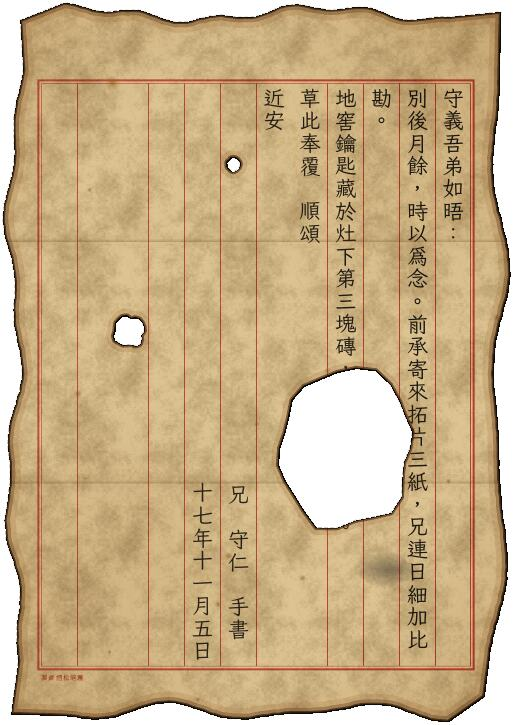
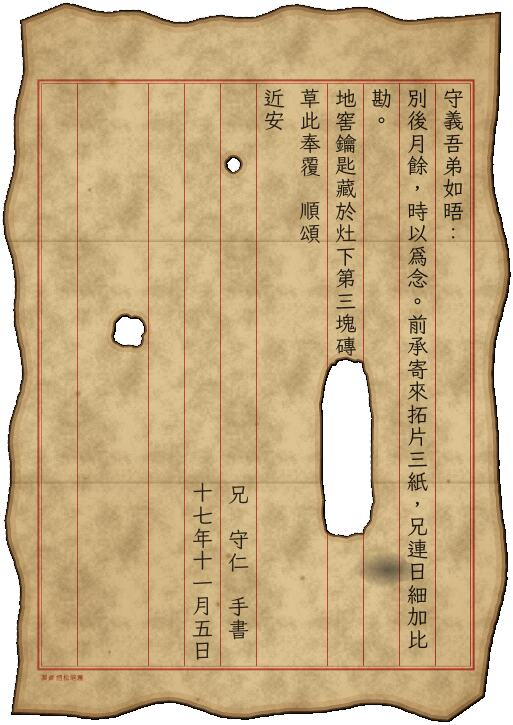
必毀區改用貼合字行、邊緣不規則的燒洞或濃墨，不再碰到保護區
- 必毀區的形狀改成貼合目標字行的超橢圓，邊緣只往外鼓；碰到保護區時先收平邊緣、再縮小外擴，都不行就放棄
- 沒有火燒時改畫完全不透光的濃墨，蓋在模糊層之上，底下的字完全看不出來
- 抹糊加深、滴蠟邊緣加強對比
- 新增測試：細長的必毀直行緊鄰保護區時不會碰到保護區
- README 修正必毀區的說明；更新範例圖

Claude-Session: https://claude.ai/code/session_01QshuMHJr6dZY8xiKzFUCcX

Changed region(s): [[0.5302, 0.4855, 0.8109, 0.7586], [0.7485, 0.7586, 0.7797, 0.789]]

diff --git a/src/lib/effects.ts b/src/lib/effects.ts
@@ -100,8 +100,10 @@ export interface EffectPlan {
   readonly holes: { readonly kind: 'burn' | 'worm' | 'pin'; readonly polygon: Point[] }[];
   /** 浸水範圍（含避開保護區的洞，以 evenodd 規則填色）。 */
   readonly water: { readonly polygons: Point[][]; readonly strength: number } | null;
-  /** 濕手抹糊的墨跡（以及必毀區的墨跡）。 */
+  /** 濕手抹糊的墨跡。 */
   readonly smudges: Point[][];
+  /** 必毀區的濃墨塗抹（沒有火燒時用來毀掉那些字）。 */
+  readonly blots: Point[][];
   readonly stains: Ellipse[];
   readonly rings: { readonly cx: number; readonly cy: number; readonly r: number; readonly arc: number; readonly rotate: number }[];
   readonly spots: Circle[];
@@ -135,6 +137,43 @@ export function blobPolygon(rng: Rng, cx: number, cy: number, r: number, roughne
     out.push({ x: cx + Math.cos(a) * r * k, y: cy + Math.sin(a) * r * k });
   }
   return out;
+}
+
+/** 緊貼矩形的不規則團塊（超橢圓，外擴 pad 公釐，只向外起伏，保證蓋住整個矩形）。 */
+function ellipseBlob(rng: Rng, target: Rect, pad: number, rough: number): Point[] {
+  const cx = target.x + target.w / 2;
+  const cy = target.y + target.h / 2;
+  // 指數 4 的超橢圓在 45° 方向約為半軸的 0.84 倍，所以半軸取半寬高的 1.19 倍即可包住四角
+  const ax = (target.w / 2) * 1.19 + pad;
+  const ay = (target.h / 2) * 1.19 + pad;
+  const n = 48;
+  const base: Point[] = [];
+  for (let i = 0; i < n; i++) {
+    const t = (i / n) * Math.PI * 2;
+    const c = Math.cos(t);
+    const s = Math.sin(t);
+    const k = 1 + rng() * 0.04;
+    base.push({ x: cx + Math.sign(c) * Math.sqrt(Math.abs(c)) * ax * k, y: cy + Math.sign(s) * Math.sqrt(Math.abs(s)) * ay * k });
+  }
+  if (rough <= 0) return base;
+  // 邊緣只往外鼓（不往內縮，免得露出該毀掉的字）：平滑過的雜訊沿外法線推出去，最多約 2.2 mm
+  const raw = base.map(() => rng());
+  const smooth = raw.map((_, i) => {
+    let sum = 0;
+    for (let d = -2; d <= 2; d++) sum += raw[(i + d + n) % n] as number;
+    return sum / 5;
+  });
+  const lo = Math.min(...smooth);
+  const span = Math.max(1e-6, Math.max(...smooth) - lo);
+  return base.map((p, i) => {
+    const a = base[(i - 1 + n) % n] as Point;
+    const b = base[(i + 1) % n] as Point;
+    const tx = b.x - a.x;
+    const ty = b.y - a.y;
+    const len = Math.hypot(tx, ty) || 1;
+    const push = rough * 2.2 * Math.pow(((smooth[i] as number) - lo) / span, 1.5);
+    return { x: p.x + (ty / len) * push, y: p.y - (tx / len) * push };
+  });
 }
 
 function boundsOf(poly: readonly Point[]): Rect {
@@ -393,16 +432,26 @@ export function planEffects(input: PlanInput): EffectPlan {
 
   // 3. 必毀區：在那裡放燒洞、浸水模糊或墨跡
   const smudges: Point[][] = [];
+  const blots: Point[][] = [];
   const burnTargets = edge === 'burnt' || s.burnHoles > 0;
   {
     const rng = rngOf('destroy');
     for (const target of input.destroy) {
-      if (hitsAny(target, protect)) continue;
-      const cx = target.x + target.w / 2;
-      const cy = target.y + target.h / 2;
-      const r = Math.max(target.w, target.h) / 2 + 1.5;
-      if (burnTargets) holes.push({ kind: 'burn', polygon: blobPolygon(rng, cx, cy, Math.max(r, 3), 0.3, 26) });
-      else smudges.push(blobPolygon(rng, cx, cy, Math.max(r, 3) * 1.15, 0.3, 26));
+      if (hitsAny(target, input.protect)) continue;
+      // 依目標的形狀（直排時是細長的一行）做成邊緣不規則的團塊；碰到保護區就先收平邊緣、再縮小外擴
+      let shape: Point[] | null = null;
+      search: for (const rough of [1, 0.5, 0]) {
+        for (const pad of [1.2, 0.6, 0.2]) {
+          const candidate = ellipseBlob(rng, target, pad, rough);
+          if (!polygonHitsAny(candidate, input.protect)) {
+            shape = candidate;
+            break search;
+          }
+        }
+      }
+      if (!shape) continue;
+      if (burnTargets) holes.push({ kind: 'burn', polygon: shape });
+      else blots.push(shape);
     }
   }
 
@@ -627,7 +676,7 @@ export function planEffects(input: PlanInput): EffectPlan {
     sun = { side: pick(rngOf('sun'), ['left', 'right', 'top', 'bottom'] as const), amount: Math.min(100, s.sunFade) };
   }
 
-  return { width: w, height: h, outline, edge, holes, water, smudges, stains, rings, spots, mold, creases, folds, rust, tape, wax, pencil, sun };
+  return { width: w, height: h, outline, edge, holes, water, smudges, blots, stains, rings, spots, mold, creases, folds, rust, tape, wax, pencil, sun };
 }
 
 /** 測試用：所有「會遮住字」的效果的外框。 */
@@ -635,6 +684,7 @@ export function obscuringShapes(plan: EffectPlan): Rect[] {
   const rects: Rect[] = [];
   for (const hole of plan.holes) rects.push(boundsOf(hole.polygon));
   for (const s of plan.smudges) rects.push(boundsOf(s));
+  for (const s of plan.blots) rects.push(boundsOf(s));
   for (const e of plan.stains) rects.push({ x: e.cx - e.rx, y: e.cy - e.rx, w: 2 * e.rx, h: 2 * e.rx });
   for (const r of plan.rings) rects.push({ x: r.cx - r.r, y: r.cy - r.r, w: 2 * r.r, h: 2 * r.r });
   for (const c of plan.spots) rects.push({ x: c.cx - c.r, y: c.cy - c.r, w: 2 * c.r, h: 2 * c.r });

diff --git a/src/render/effects.ts b/src/render/effects.ts
@@ -84,7 +84,7 @@ function draw(paper: HTMLElement, content: HTMLElement | null, plan: EffectPlan,
     s(
       'radialGradient',
       { attrs: { id: `${id}-smear` } },
-      s('stop', { attrs: { offset: '0%', 'stop-color': 'rgb(25 22 20)', 'stop-opacity': '0.45' } }),
+      s('stop', { attrs: { offset: '0%', 'stop-color': 'rgb(25 22 20)', 'stop-opacity': '0.6' } }),
       s('stop', { attrs: { offset: '100%', 'stop-color': 'rgb(25 22 20)', 'stop-opacity': '0' } }),
     ),
     s(
@@ -161,8 +161,8 @@ function draw(paper: HTMLElement, content: HTMLElement | null, plan: EffectPlan,
   // 滴蠟
   for (const x of plan.wax) {
     svg.append(
-      s('path', { attrs: { d: path(x.drip), fill: `url(#${id}-wax)`, stroke: 'rgb(200 190 160 / 0.6)', 'stroke-width': 0.2 } }),
-      s('path', { attrs: { d: path(x.blob), fill: `url(#${id}-wax)`, stroke: 'rgb(200 190 160 / 0.7)', 'stroke-width': 0.25 } }),
+      s('path', { attrs: { d: path(x.drip), fill: `url(#${id}-wax)`, stroke: 'rgb(150 135 95 / 0.75)', 'stroke-width': 0.3, transform: 'translate(0.25 0.25)' } }),
+      s('path', { attrs: { d: path(x.blob), fill: `url(#${id}-wax)`, stroke: 'rgb(150 135 95 / 0.8)', 'stroke-width': 0.35 } }),
     );
   }
   // 浸水：潮線與皺紋（模糊另外用 backdrop-filter）
@@ -235,6 +235,14 @@ function draw(paper: HTMLElement, content: HTMLElement | null, plan: EffectPlan,
         },
       }),
     );
+  }
+  // 必毀區：濃墨塗抹，蓋在模糊層之上，字完全看不出來
+  if (plan.blots.length > 0) {
+    const ink = s('svg', { class: 'fx-svg', attrs: { viewBox: `0 0 ${w} ${ph}`, preserveAspectRatio: 'none' } });
+    for (const b of plan.blots) {
+      ink.append(strokePath(path(b), 'rgb(28 22 18 / 0.3)', 1.4), s('path', { attrs: { d: path(b), fill: 'rgb(30 24 19)' } }));
+    }
+    layer.appendChild(ink);
   }
   // 摺痕（對摺、四摺、三摺），交叉處磨白
   for (const y of plan.folds.horizontal) layer.appendChild(h('div', { class: 'fold fold-h', style: { top: `${y * 100}%` } }));

diff --git a/test/effects.test.ts b/test/effects.test.ts
@@ -131,11 +131,27 @@ describe('效果規劃：保護區與必毀區', () => {
           crop: null,
         });
         const target = destroy[0]!;
-        const covering = [...plan.holes.map((h) => h.polygon), ...plan.smudges];
+        const covering = [...plan.holes.map((h) => h.polygon), ...plan.blots];
         assert.ok(
           covering.some((poly) => rectPolygonRelation({ x: target.x + 1, y: target.y + 2, w: target.w - 2, h: target.h - 4 }, poly) === 'inside'),
           `${edge} 種子 ${seed}：必毀區沒有被蓋住`,
         );
+      }
+    }
+  });
+
+  it('必毀區是細長的直行、旁邊緊鄰保護區時，毀掉的效果不會碰到保護區', () => {
+    const tallDestroy = { x: 121.4, y: 35.8, w: 11.4, h: 64.7 };
+    const nearProtect = [
+      { x: 136.1, y: 35.8, w: 11.4, h: 55.4 },
+      { x: 106.7, y: 35.8, w: 11.4, h: 55.4 },
+    ];
+    for (const edge of ['none', 'burnt'] as const) {
+      for (let seed = 1; seed <= 15; seed++) {
+        const plan = planEffects({ width: 210, height: 297, settings: settings({ edge, effectSeed: seed }), protect: nearProtect, destroy: [tallDestroy], crop: null });
+        const covering = [...plan.holes.map((h) => h.polygon), ...plan.blots];
+        assert.ok(covering.some((poly) => rectPolygonRelation({ x: 123, y: 38, w: 8, h: 60 }, poly) === 'inside'), `${edge} ${seed}：必毀區沒被蓋住`);
+        for (const p of nearProtect) for (const poly of covering) assert.equal(rectPolygonRelation(p, poly), 'outside', `${edge} ${seed}：碰到保護區`);
       }
     }
   });

diff --git a/README.md b/README.md
@@ -45,7 +45,7 @@
 - **自由裁切**：在預覽上畫多邊形或手繪套索，框出要保留的部分；紙邊樣式會沿你畫的形狀加工。
   列印時可加印淡色的「沿此剪下」裁切線，照著剪就能剪出手撕、火燒的形狀。
 - **文字層標記**（寫在信件、報紙、電報的正文裡）：
-  `[保:文字]` 線索（保護區，所有隨機效果都會避開）、`[毀:文字]` 必毀區（火燒、水漬、墨跡會專門打在這裡）、
+  `[保:文字]` 線索（保護區，所有隨機效果都會避開）、`[毀:文字]` 必毀區（開了火燒邊或燒洞時燒出一個破洞，否則用濃墨整塊塗掉；碰到保護區時會自動縮小）、
   `[黑:文字]` 塗黑、`[刪:文字]` 刪除線、`[改:舊|新]` 劃掉重寫、`[斷:文字]` 字寫到一半中斷。
   保護區與必毀區在預覽上以虛線框標示，列印時不會印出。
 - **裝飾**：血跡（噴濺、滴落、拖痕、手印）、咖啡杯印、墨漬、指紋、火漆封印、紅筆圈注與箭頭、鉛筆劃線與眉批、
